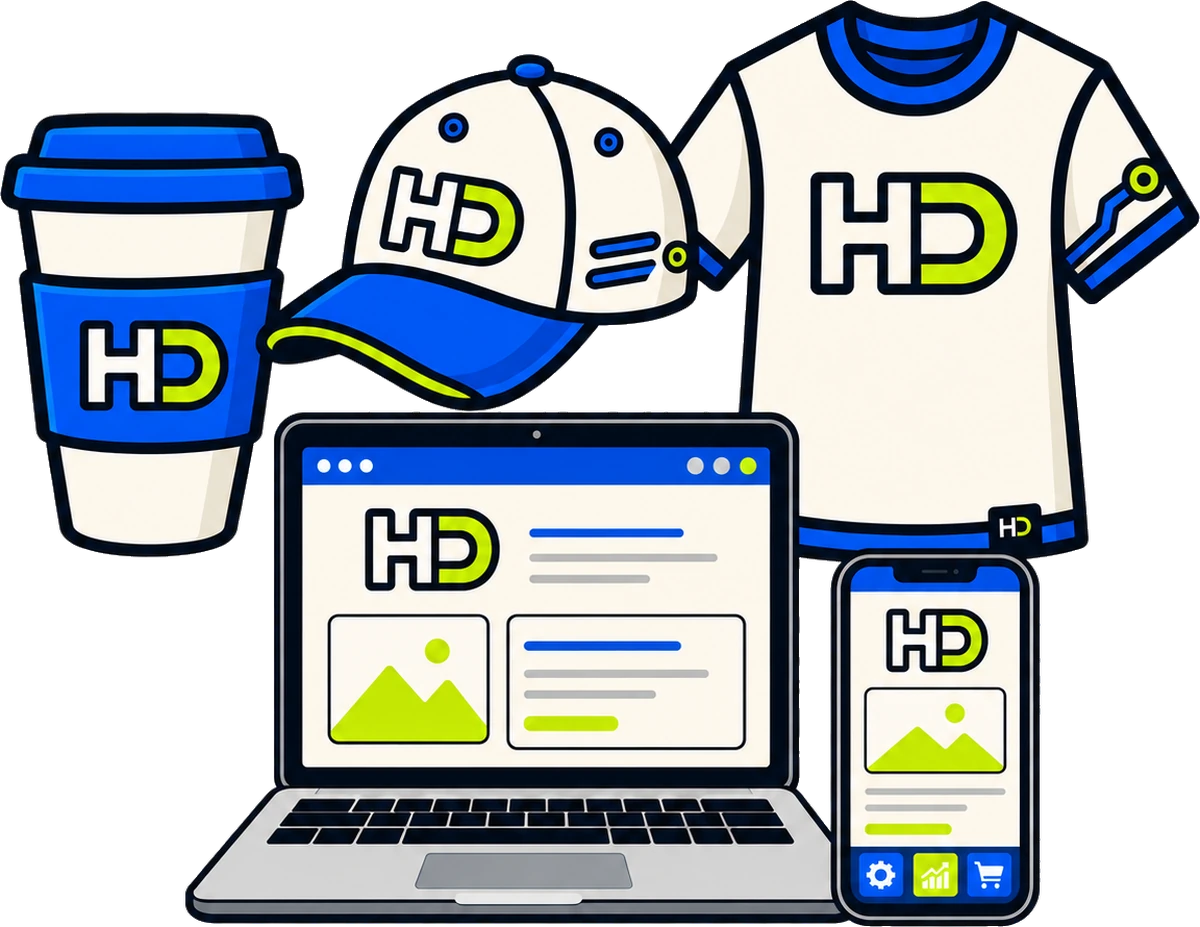
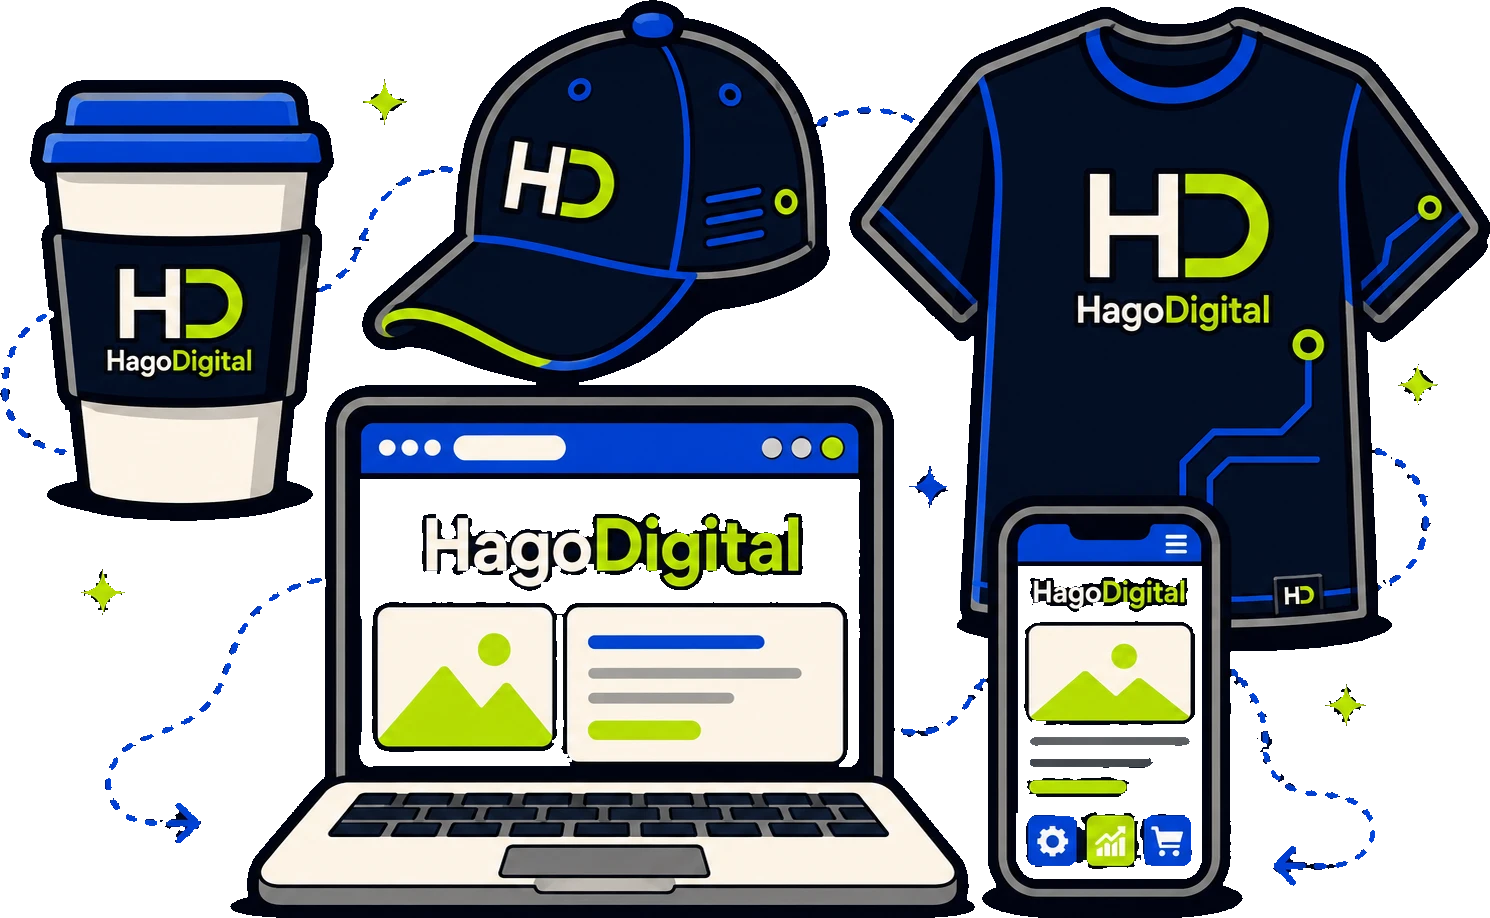
Deploy: sync site from workspace @ 91046b5

diff --git a/branding.html b/branding.html
@@ -215,10 +215,16 @@
 
     <figure data-rise="right">
       <!-- Bare on navy, no .framed — this file carries no ground of its own, so a
-           panel would be drawing a box around nothing. Taller than the export it
-           replaces (1.30 against 1.71) because the new composition stacks the cup,
-           cap and shirt above the devices instead of lining them all up. -->
-      <img src="assets/brand-applied.webp" width="1200" height="927" loading="lazy" decoding="async"
+           panel would be drawing a box around nothing.
+           Replaced 2026-08-12 and WIDER than what it replaces: 1.62 against 1.30.
+           It arrived on a flat (0,8,28) plate — four units of blue off the
+           section's #000A18, close enough to look deliberate in a thumbnail and
+           to show as a faint rectangle at full width, so it is keyed like every
+           other supplied file rather than shipped opaque. That key had a one-unit
+           margin: the plate sits at (0,8,28) and the artwork's own darkest navy
+           at (0,1,21), seven away against a tolerance of six. It holds, but it is
+           the tightest on the site — re-measure, never reuse this tolerance. -->
+      <img src="assets/brand-applied.webp" width="1490" height="918" loading="lazy" decoding="async"
            alt="The HagoDigital identity applied across a coffee cup, a cap, a t-shirt, a laptop website and a phone screen.">
     </figure>
   </div>
